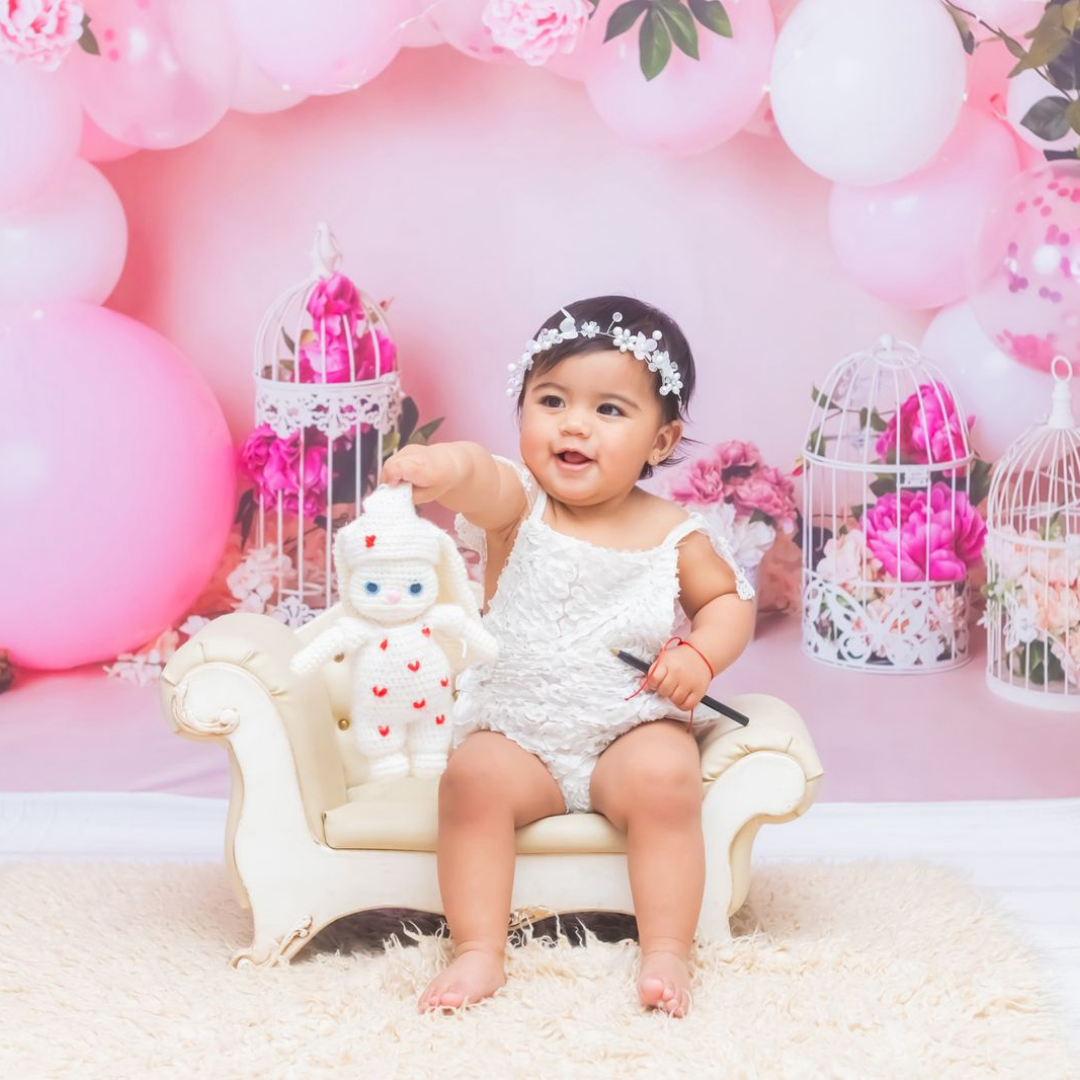
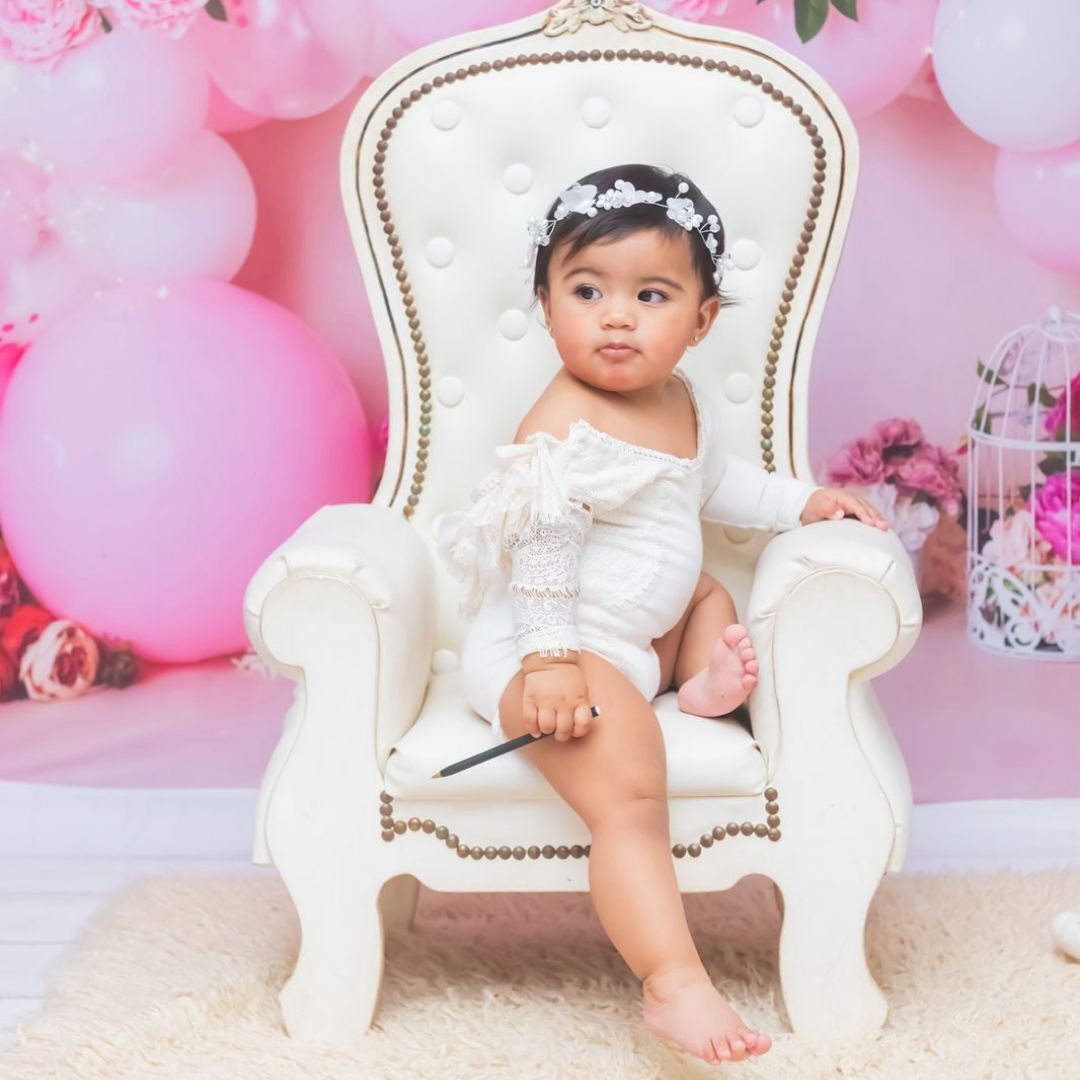
asasas
asasas

diff --git a/index.html b/index.html
@@ -51,7 +51,7 @@
     <img class="f1" src="./img/2.png" alt="foto">
     <img class="f1" src="./img/3.png" alt="foto">
     <img class="f1" src="./img/4.png" alt="foto">
-    <img class="f1" src="./img/6.png" alt="foto">
+    <img class="f1" src="./img/1.png" alt="foto">
   </div>
       <main>
         <!--
@@ -69,10 +69,10 @@
         </div>
   </main>
   <div class="galeria">
-    <img class="f1" src="./img/1.png" alt="foto">
-    <img class="f2" src="./img/1.png" alt="foto">
-    <img class="f3" src="./img/1.png" alt="foto">
-    <img class="f4" src="./img/1.png" alt="foto">
+    <img class="f1" src="./img/6.png" alt="foto">
+    <img class="f2" src="./img/6.png" alt="foto">
+    <img class="f3" src="./img/6.png" alt="foto">
+    <img class="f4" src="./img/6.png" alt="foto">
   </div>
   <div class="quote">
     <p> NO OLVIDES TRAER TU OUTFIT BLANCO, TOALLA Y TRAJE DE BAÑO PARA DISFRUTAR EL DÍA. TE ESPERO</p>
